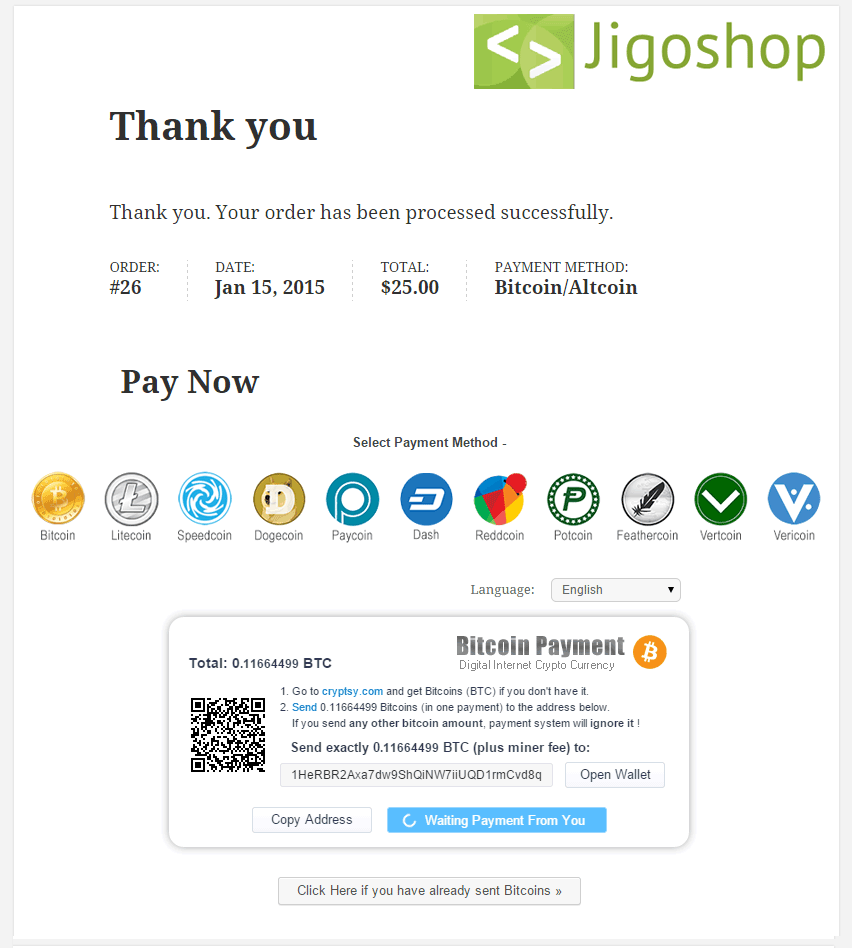
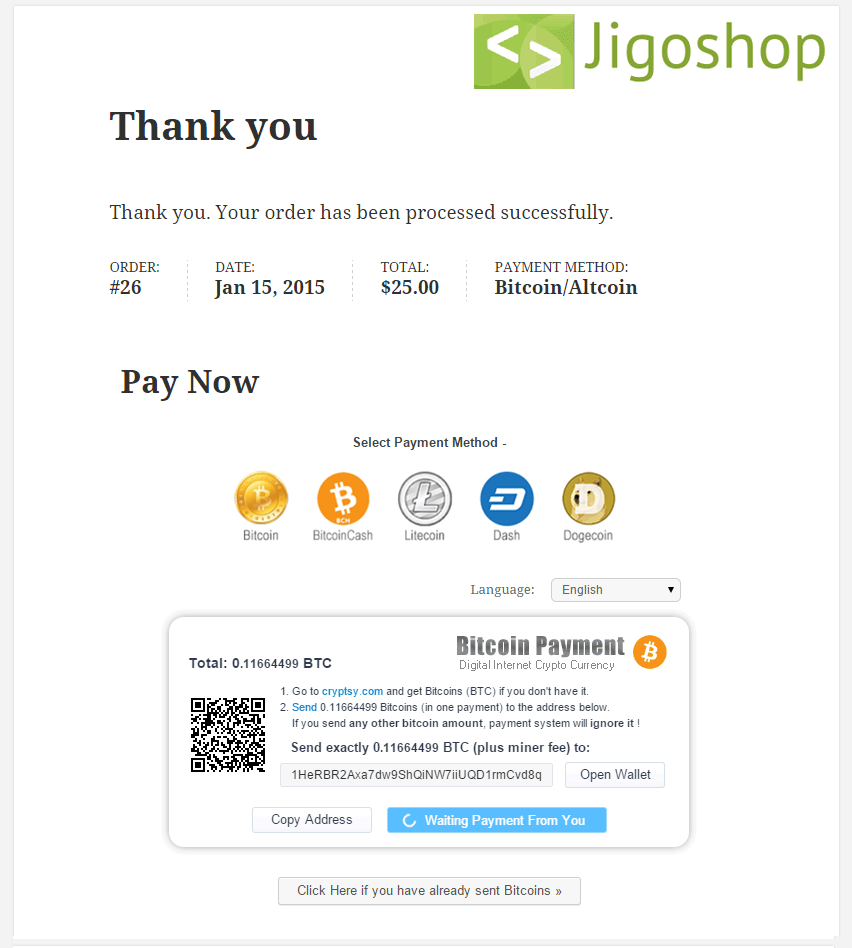
Version 1.1.2
Added Bitcoin Cash (BCH / BCC)

Changed region(s): [[0.0305, 0.4895, 0.9765, 0.5812]]

diff --git a/jigoshop-gateway-gourl.php b/jigoshop-gateway-gourl.php
@@ -2,8 +2,8 @@
 /*
 Plugin Name: 		GoUrl Jigoshop - Bitcoin Altcoin Payment Gateway Processor
 Plugin URI: 		https://gourl.io/bitcoin-payments-jigoshop.html
-Description: 		Provides a <a href="https://gourl.io">GoUrl.io</a> Bitcoin/Altcoin Payment Gateway for <a href="https://wordpress.org/plugins/jigoshop/">Jigoshop 1.12+</a>. Support product prices in USD/EUR/etc and in Bitcoin/Altcoins directly; sends the amount straight to your business Bitcoin/Altcoin wallet. Convert your USD/EUR/etc prices to cryptocoins using Google/Cryptsy Exchange Rates. Direct Integration on your website, no external payment pages opens (as other payment gateways offer). Accept Bitcoin, Litecoin, Paycoin, Dogecoin, Dash, Speedcoin, Reddcoin, Potcoin, Feathercoin, Vertcoin, Vericoin, Peercoin, MonetaryUnit payments online. You will see the bitcoin/altcoin payment statistics in one common table on your website. No Chargebacks, Global, Secure. All in automatic mode.
-Version: 			1.1.1
+Description: 		Provides a <a href="https://gourl.io">GoUrl.io</a> Bitcoin/Altcoin Payment Gateway for <a href="https://wordpress.org/plugins/jigoshop/">Jigoshop 1.12+</a>. Support product prices in USD/EUR/etc and in Bitcoin/Altcoins directly; sends the amount straight to your business Bitcoin/Altcoin wallet. Convert your USD/EUR/etc prices to cryptocoins using Google/Poloniex Exchange Rates. Direct Integration on your website, no external payment pages opens (as other payment gateways offer). Accept Bitcoin, BitcoinCash, Litecoin, Dash, Dogecoin, Speedcoin, Reddcoin, Potcoin, Feathercoin, Vertcoin, Peercoin, MonetaryUnit payments online. You will see the bitcoin/altcoin payment statistics in one common table on your website. No Chargebacks, Global, Secure. All in automatic mode.
+Version: 			1.1.2
 Author: 			GoUrl.io
 Author URI: 		https://gourl.io
 License: 			GPLv2
@@ -224,7 +224,7 @@ function gourl_jigoshop_gateway_load()
 	    	$method_description  	 = "<img style='float:left; margin-right:15px' src='".plugin_dir_url( __FILE__ )."gourlpayments.png'>";
 	    	$method_description  	.= __( '<a target="_blank" href="https://gourl.io/bitcoin-payments-jigoshop.html">Plugin Homepage &#187;</a>', GOURLJI ) . "<br>";
 	    	$method_description  	.= __( '<a target="_blank" href="https://github.com/cryptoapi/Bitcoin-Payments-Jigoshop">Plugin on Github - 100% Free Open Source &#187;</a>', GOURLJI ) . "<br><br>";
-	    	$method_description  	.= sprintf(__( 'Accept %s payments online in Jigoshop.', GOURLJI ), ($this->coin_names?ucwords(implode(", ", $this->coin_names)):"Bitcoin, Litecoin, Paycoin, Dogecoin, Dash, Speedcoin, Reddcoin, Potcoin, Feathercoin, Vertcoin, Vericoin, Peercoin, MonetaryUnit")).'<br/>';
+	    	$method_description  	.= sprintf(__( 'Accept %s payments online in Jigoshop.', GOURLJI ), ($this->coin_names?ucwords(implode(", ", $this->coin_names)):"Bitcoin, BitcoinCash, Litecoin, Dash, Dogecoin, Speedcoin, Reddcoin, Potcoin, Feathercoin, Vertcoin, Peercoin, MonetaryUnit")).'<br/>';
 	    	
 	    	// Requirements
 	    	if (class_exists('gourlclass') && defined('GOURL') && defined('GOURL_ADMIN') && is_object($gourl))
@@ -631,5 +631,5 @@ function gourl_jigoshop_gateway_load()
 
 
 }
-// end gourl_jigoshop_gateway_load()      
+// end gourl_jigoshop_gateway_load()       
 

diff --git a/readme.md b/readme.md
@@ -2,20 +2,20 @@
 GoUrl Jigoshop - Bitcoin Altcoin Payment Gateway Processor
 -----------------------------------------------------------
 
-Version 1.1.1
+Version 1.1.2
 
 
 **Wordpress Plugin provides a Bitcoin/Altcoin Payment Gateway for Jigoshop 1.12+ or higher.**
 
-Accept Bitcoin, Litecoin, Paycoin, Dogecoin, Dash, Speedcoin, Reddcoin, Potcoin, Feathercoin, Vertcoin, Vericoin, Peercoin, MonetaryUnit on Website Online
+Accept Bitcoin, BitcoinCash, Litecoin, Dash, Dogecoin, Speedcoin, Reddcoin, Potcoin, Feathercoin, Vertcoin, Peercoin, MonetaryUnit on Website Online
 
 * Author URI: [https://gourl.io](https://gourl.io)
 * Plugin Page: [https://gourl.io/bitcoin-payments-jigoshop.html](https://gourl.io/bitcoin-payments-jigoshop.html)
 * Wordpress Page: [https://wordpress.org/plugins/gourl-jigoshop-bitcoin-payment-gateway-processor/](https://wordpress.org/plugins/gourl-jigoshop-bitcoin-payment-gateway-processor/)
 * Screenshots: [https://gourl.io/bitcoin-payments-jigoshop.html#screenshot](https://gourl.io/bitcoin-payments-jigoshop.html#screenshot)
 * Requires at least: Wordpress 3.5 and Jigoshop 1.12+
-* Tested up to: Wordpress 4.3 and Jigoshop 1.15.4
-* Stable Tag: 1.1.1
+* Tested up to: Wordpress 4.9 and Jigoshop 1.15.4
+* Stable Tag: 1.1.2
 * License: GNU Version 2 or Any Later Version
 
 
@@ -26,7 +26,7 @@ Accept Bitcoin, Litecoin, Paycoin, Dogecoin, Dash, Speedcoin, Reddcoin, Potcoin,
 * Accept Bitcoin and other cryptocurrency payments in Jigoshop
 * No Monthly Fee, Transaction Fee from 0%
 * Product Prices in Bitcoin/Altcoins directly and sends the amount straight to your business wallet.
-* Product Prices in USD/EUR/GBP/etc. Google/Bitstamp/Cryptsy Live Exchange Rates
+* Product Prices in USD/EUR/GBP/etc. Google/Bitstamp/Poloniex Live Exchange Rates
 * Direct Integration on your website, no external payment pages opens (as other payment gateways offer)
 * You will see the bitcoin/altcoin payment statistics in one common table on your website.
 * No Chargebacks, Global, Secure. All in automatic mode.
@@ -69,4 +69,4 @@ Plugin Options
 
 
 # ![Jigoshop-Plugin-Options](https://gourl.io/images/jigoshop/screenshot-1.png)
- 
+    
